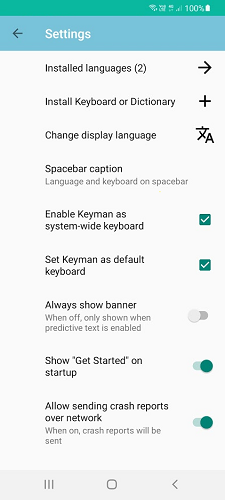
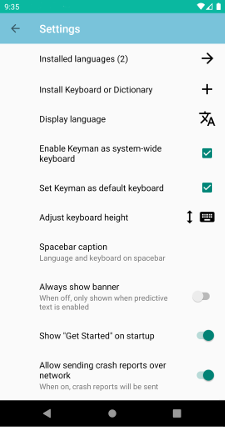
chore(android/app): Add in-app help for adjusting keyboard height

diff --git a/android/help/basic/config/index.md b/android/help/basic/config/index.md
@@ -23,34 +23,14 @@ This displays the number of installed languages in parentheses `()`. Click this 
 screen where you can [install new keyboards](../../start/installing-keyboards) from the keyman.com catalog.
 
 ## Install Keyboard or Dictionary
-This displays a few ways to install a keyboard package or dictionary package.
+![](../../android_images/ic_content_add.png)
 
-![](../../android_images/settings-screen-install-keyboard-dictionary.png)
-
-### Install from keyman.com
-Click on this to search for a keyboard from keyman.com and install. The process is the same as [installing keyboards](../../start/installing-keyboards).
-
-### Install from local file
-Click on this to [install custom keyboard and dictionary packages](../installing-custom-packages).
-
-### Add languages to installed keyboard
-For installed keyboard packages, click on this to associate another language with a keyboard.
-If all the languages for a keyboard have already been installed,
-this won't change anything.
+Click on this to display a [menu](install-keyboard-or-dictionary) that has a few ways to install a keyboard package or dictionary package.
 
 ## Change Display Language
 ![](../../android_images/ic_translate_a.png)
 
 Click on this to change the display language of the Keyman for Android app. The list of available languages come from [translate.keyman.com](https://translate.keyman.com). If a translation is available, Keyman for Android will default to the device's default locale.
-
-## Spacebar Caption
-Click on this to change the displayed keyboard name on the spacebar. The options are:
-* Language name
-* Keyboard name
-* Language name + Keyboard name
-* Blank
-
-![](../../android_images/spacebar-caption-ap.png)
 
 ## Enable Keyman as system-wide keyboard
 By default, installed Keyman keyboards are only available to use within the Keyman app. Click on this setting to
@@ -58,6 +38,14 @@ bring up the Android system configuration so Keyman can be added as a system-wid
 
 ## Set Keyman as default keyboard
 Click on this to bring up the Android system configuration for setting Keyman as the default system-wide keyboard.
+
+## Adjust Keyboard Height
+![](../../android_images/adjust-height.png)
+
+Click on this to [adjust the keyboard height](adjust-keyboard-height).
+
+## Spacebar Caption
+Click on this to [change the displayed keyboard name](spacebar-caption) on the spacebar.
 
 ## Always show banner
 This toggle is reserved for future features. When off, the text suggestion banner is only displayed when

diff --git a/android/help/basic/config/install-keyboard-or-dictionary.md b/android/help/basic/config/install-keyboard-or-dictionary.md
@@ -1,0 +1,19 @@
+---
+title: Install Keyboard or Dictionary - Keyman for Android Help
+---
+
+## Install Keyboard or Dictionary
+This menu has a few ways to install a keyboard package or dictionary package.
+
+![](../../android_images/settings-screen-install-keyboard-dictionary.png)
+
+### Install from keyman.com
+Click on this to search for a keyboard from keyman.com and install. The process is the same as [installing keyboards](../../start/installing-keyboards).
+
+### Install from local file
+Click on this to [install custom keyboard and dictionary packages](../installing-custom-packages).
+
+### Add languages to installed keyboard
+For installed keyboard packages, click on this to associate another language with a keyboard.
+If all the languages for a keyboard have already been installed,
+this won't change anything.

diff --git a/android/help/basic/config/adjust-keyboard-height.md b/android/help/basic/config/adjust-keyboard-height.md
@@ -1,0 +1,16 @@
+---
+title: Adjust Keyboard Height - Keyman for Android Help
+---
+
+## Adjust Keyboard Height
+
+This menu is used to adjust the height of the on-screen keyboard (OSK), which does not include the suggestion banner.
+
+Drag the blank OSK at the bottom of the screen to increase or decrease the keyboard height for the device's current orientation (portrait vs landscape). The adjusted keyboard heights are automatically saved when the blank OSK is released.
+
+![](../../android_images/blank-osk.png)
+
+### Reset to Default Height
+Press the button to reset the OSK height to the default values.
+
+![](../../android_images/reset-to-default.png)

diff --git a/android/help/about/whatsnew.md b/android/help/about/whatsnew.md
@@ -4,6 +4,7 @@ title: What's New
 Here are some of the new features we have added to Keyman 15.0 for Android:
 
 * Meet Google Play's target API level requirement of 30 (Android 11)
+* Add a menu to adjust keyboard height
 * Add a settings option to change the displayed keyboard name on the spacebar
 * Improve the globe key experience for switching keyboards:
     * Short press and release the globe key to immediately switch to next keyboard

diff --git a/android/help/basic/config/spacebar-caption.md b/android/help/basic/config/spacebar-caption.md
@@ -1,0 +1,13 @@
+---
+title: Spacebar Caption - Keyman for Android Help
+---
+
+## Spacebar Caption
+
+This menu can be used to change the displayed keyboard name on the spacebar. The options are:
+* Language name
+* Keyboard name
+* Language name + Keyboard name
+* Blank
+
+![](../../android_images/spacebar-caption-ap.png)
